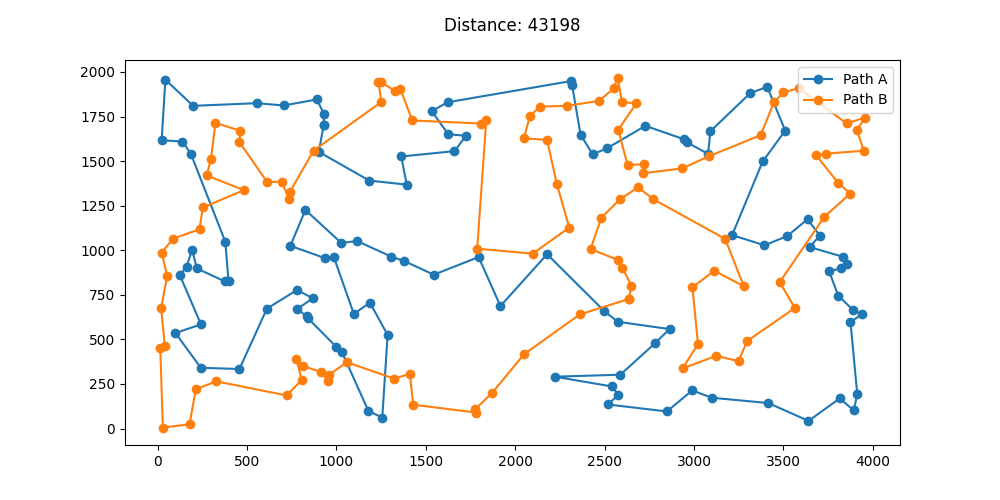
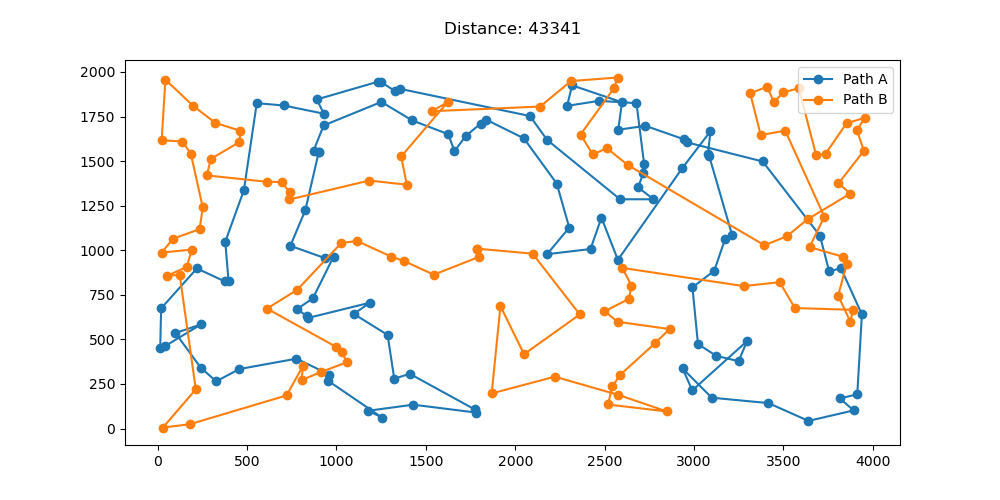
Update cache local search results in sprawko.md

diff --git a/Lab3/sprawozdanie/sprawko.md b/Lab3/sprawozdanie/sprawko.md
@@ -85,7 +85,7 @@ Powtarzaj dopóki delta najlepszego ruchu mniejsza od 0:
 | ----------------------- | ------------------------ | ----------------------- |
 | Cycle Augmentation      | 39502.51 (36621 - 42312) | 1252.79 (1228 - 1396)   |
 | Local Search - Steepest | 42095.21 (38155 - 46176) | 10706.41 (9198 - 12083) |
-| Cache Local Search      | 47239.43 (43198 - 53129) | 8037.21 (7248 - 8973)   |  
+| Cache Local Search      | 48534.32 (43341 - 54916) | 531.44 (471 - 602)      |
 | Candidate Moves (k=20)  | 43488.3 (39551 - 49012)  | 7231.28 (6362 - 8039)   |
 
 ### Cycle Augmentation
@@ -110,7 +110,7 @@ Powtarzaj dopóki delta najlepszego ruchu mniejsza od 0:
 | ----------------------- | ------------------------ | ---------------------- |
 | Cycle Augmentation      | 38928.69 (34997 - 43293) | 1293.11 (1229 - 1502)  |
 | Local Search - Steepest | 41760.15 (38626 - 46975) | 9992.07 (9198 - 11196) |
-| Cache Local Search      | 47427.83 (43338 - 53185) | 7935.89 (7051 - 8824)  | 
+| Cache Local Search      | 47239.43 (43557 - 54389) | 534.97 (484 - 613)     |
 | Candidate Moves (k=20)  | 43851.04 (39220 - 50323) | 7299.45 (6362 - 8039)  |
 
 ### Cycle Augmentation
@@ -130,6 +130,7 @@ Powtarzaj dopóki delta najlepszego ruchu mniejsza od 0:
 ![kroB Candidate Moves](kroB_candidate.png "Candidate Moves")
 
 ## Wnioski
+
 Zarówno algorytm lokalnego przeszukiwania oparty o ruchy kandydackie jak i o wykorzystywanie ruchów z poprzednich iteracji, przyniosły poprawę czasową wykonania przeszukiwania w porównaniu do tradycyjnej wersji stromej. Przy czym najszybszy okazał się algorytm oparty o ruchy kandydackie. Jeżeli chodzi o funkcję celu to algorytm ruchów kandydackich jest gorszy od tradycyjnego przeszukiwania stromego, ale lepszy od algorytmu z listą ruchów, który wypadł najgorzej w tym zestawieniu. Wszystkie 3 algorytmy dają gorsze wyniki zarówno czasowe jak i pod względem funkcji celu, od algorytmu konstrukcyjnego, ale może być to spowodowane rozpoczynaniem od rozwiązań losowych, a lokalne przeszukiwanie nie jest w stanie oddzielić cykli przestrzenie od siebie, co dobrze widać na wizualizacjach.
 
 ## Kod programu
